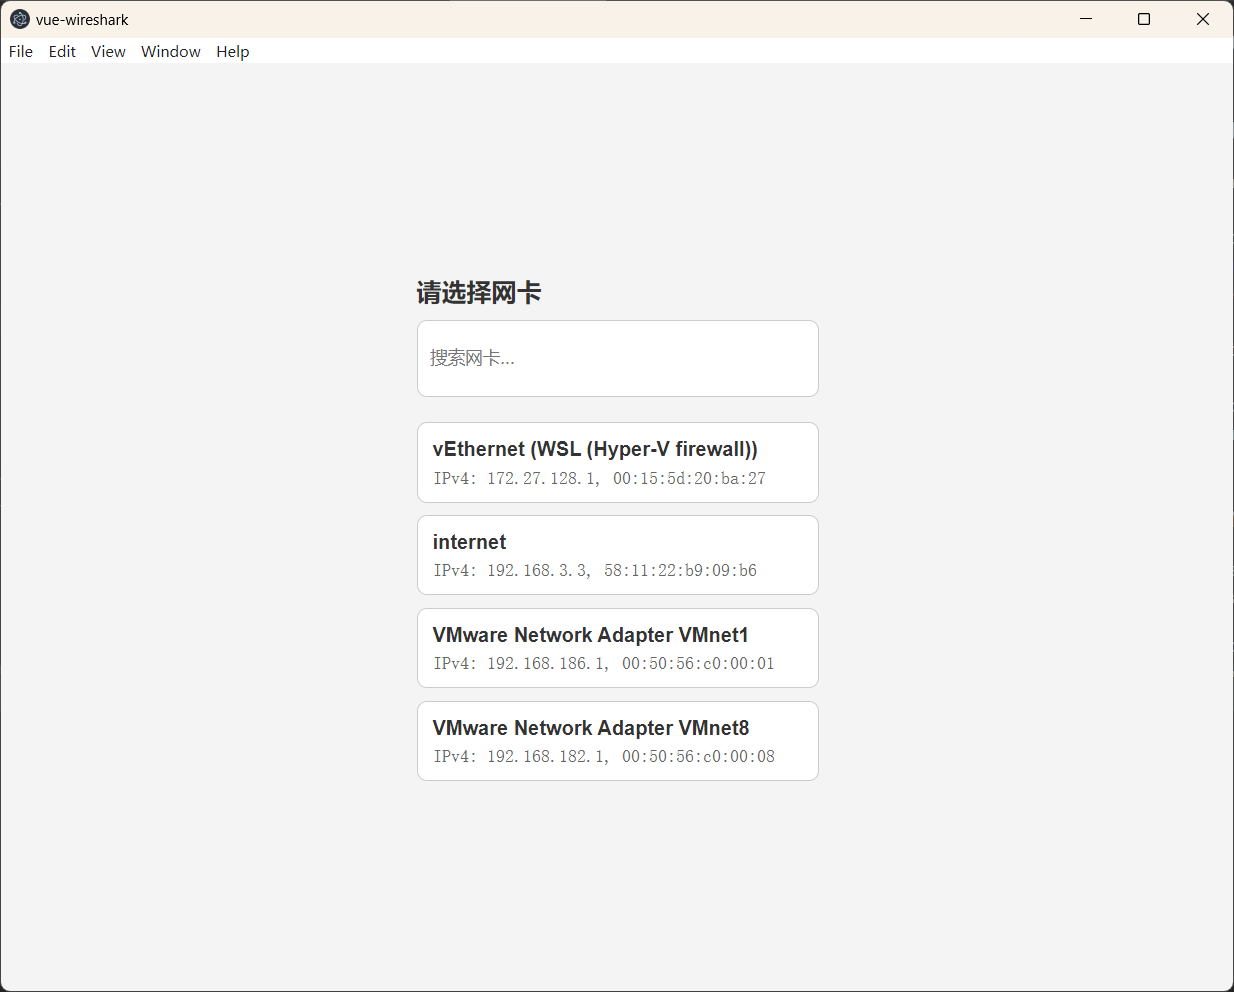
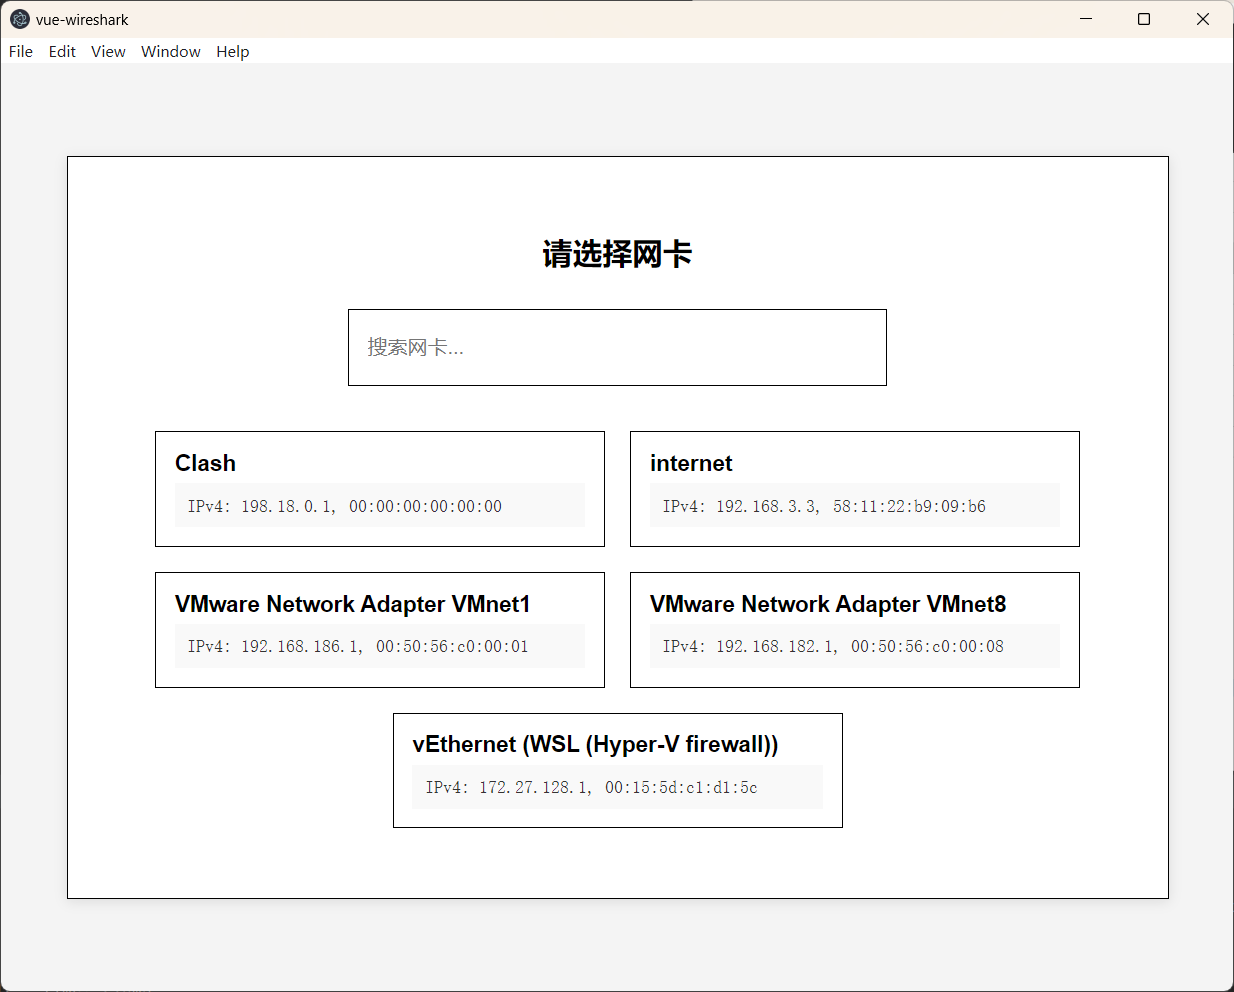
Add newest snap

diff --git a/src/MainWindow.js b/src/MainWindow.js
@@ -40,8 +40,8 @@ class MainWindow {
         await app.whenReady();
 
         this.window = new BrowserWindow({
-            width: 1000,
-            height: 800,
+            width: 1400,
+            height: 1000,
             webPreferences: {
                 nodeIntegration: true,
                 contextIsolation: false,
